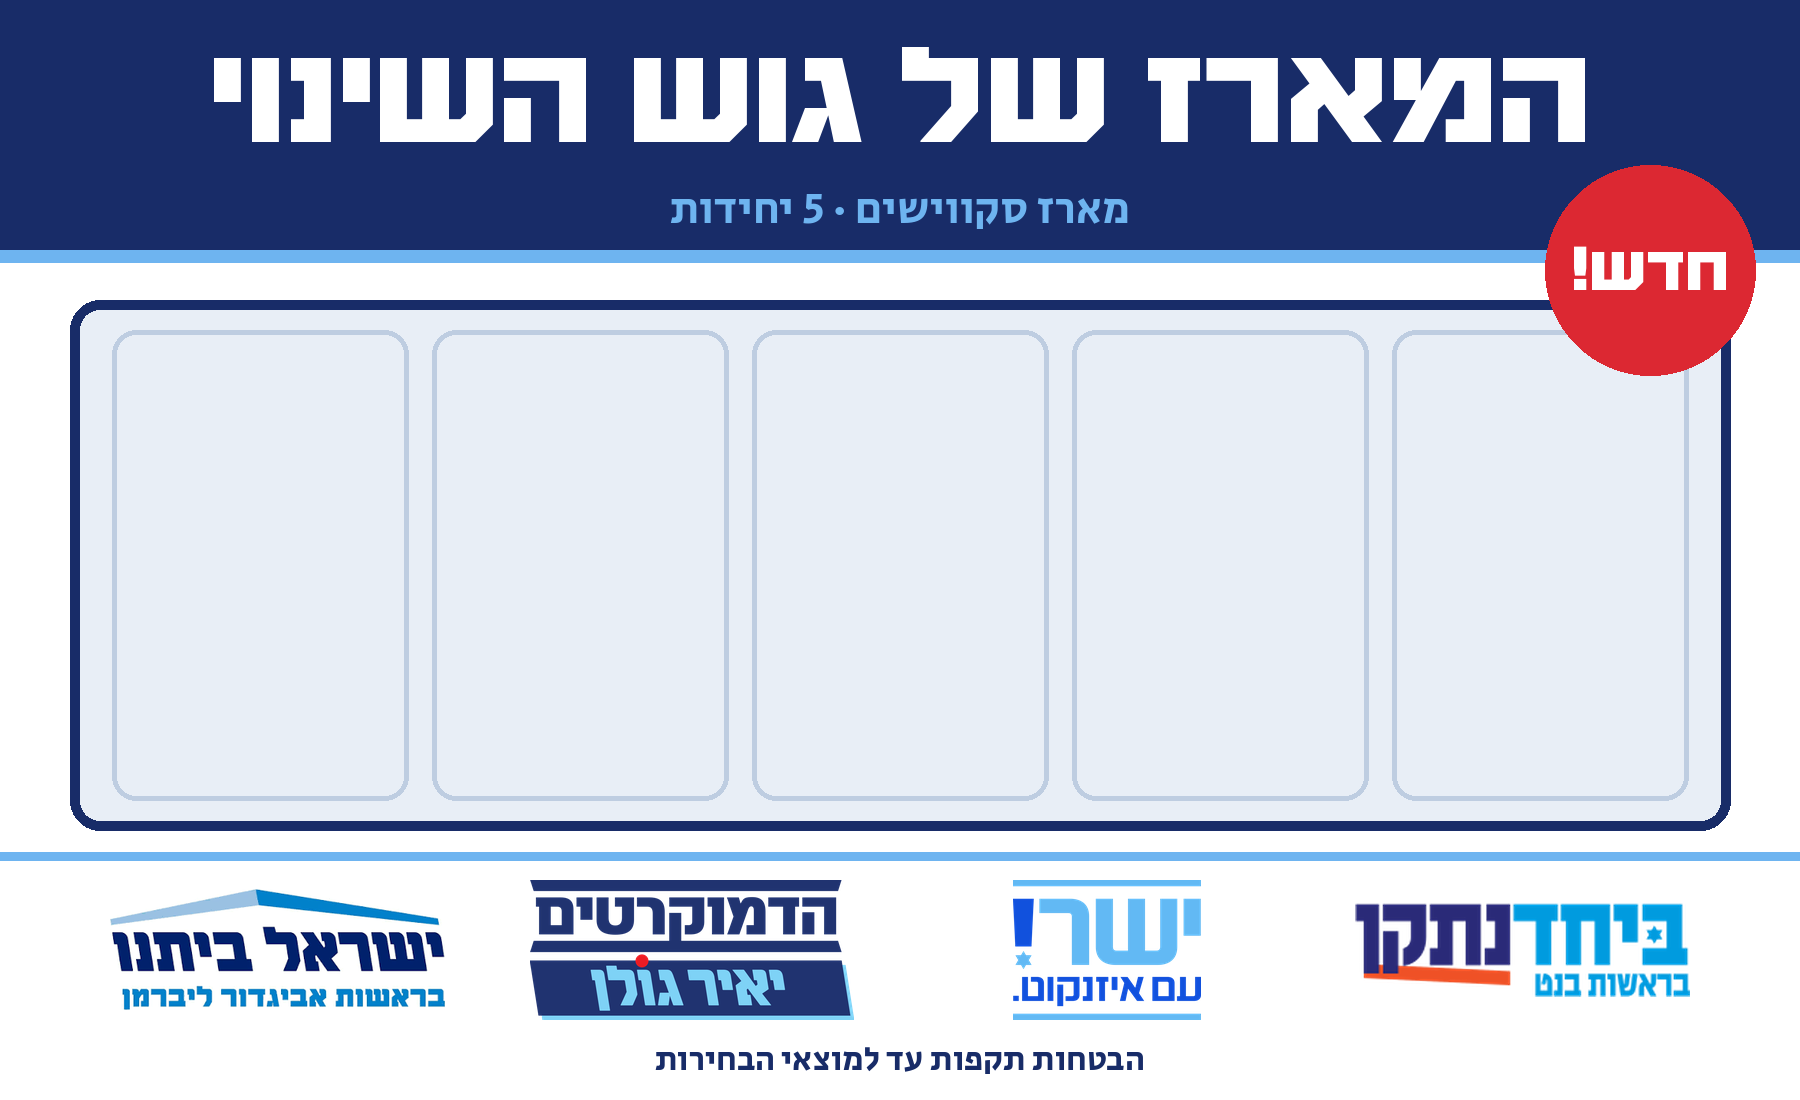
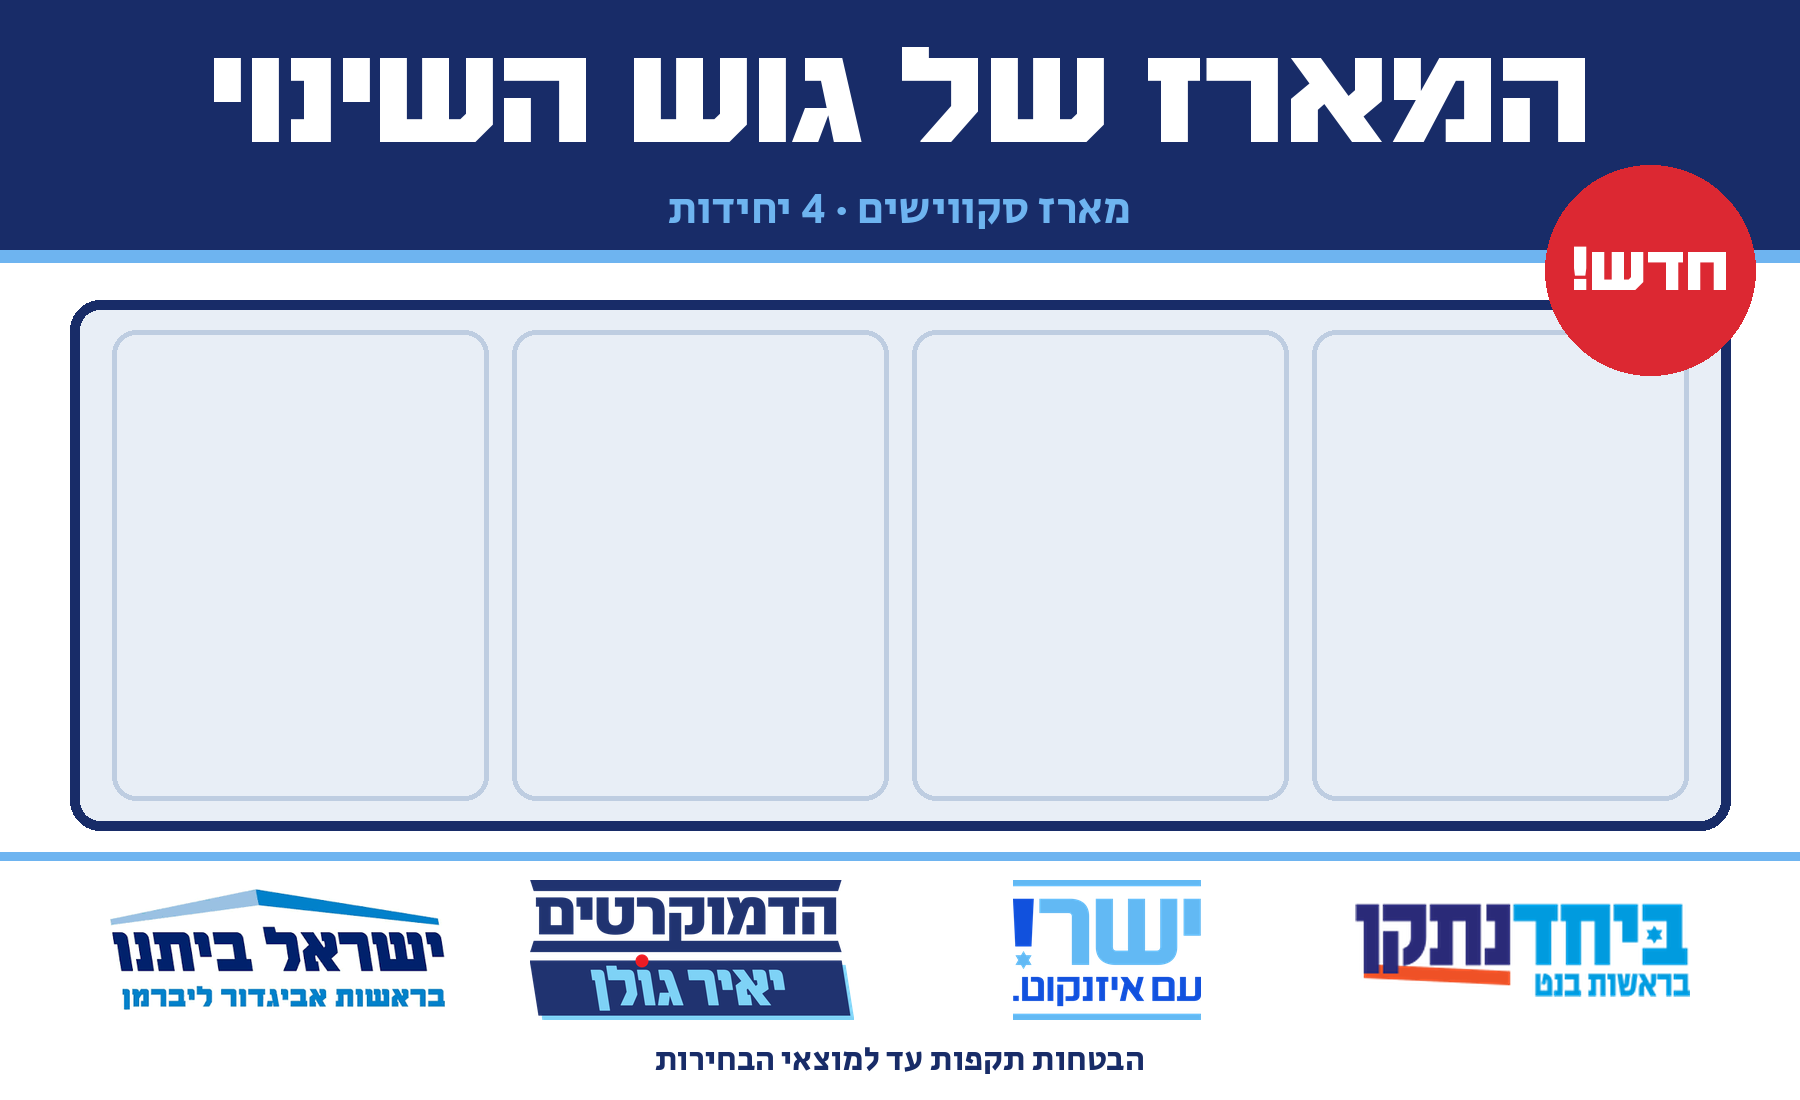
Squishy box: 4 compartments
Claude-Session: https://claude.ai/code/session_01RS3QK6pAd3YhyAuXZSJjH1

diff --git a/content-kit/independent/2026-11-squishy-unboxing/make_box.py b/content-kit/independent/2026-11-squishy-unboxing/make_box.py
@@ -9,12 +9,12 @@ def F(p, s): return ImageFont.truetype(p, s, layout_engine=ImageFont.Layout.RAQM
 im = Image.new('RGBA', (W, H), WHITE); d = ImageDraw.Draw(im)
 d.rectangle((0, 0, W, 250), fill=NAVY); d.rectangle((0, 250, W, 262), fill=LB)
 d.text((W / 2, 30), 'המארז של גוש השינוי', font=F(KB, 140), fill=WHITE, anchor='ma', direction='rtl')
-d.text((W / 2, 178), 'מארז סקווישים · 5 יחידות', font=F(SEC, 44), fill=LB, anchor='ma', direction='rtl')
+d.text((W / 2, 178), 'מארז סקווישים · 4 יחידות', font=F(SEC, 44), fill=LB, anchor='ma', direction='rtl')
 # window
 WX0, WY0, WX1, WY1 = 70, 300, W - 70, 830
 d.rounded_rectangle((WX0, WY0, WX1, WY1), 30, fill=(232, 238, 246), outline=NAVY, width=10)
-for i in range(5):
-    x0 = WX0 + 30 + i * (WX1 - WX0 - 60) / 5; d.rounded_rectangle((x0 + 12, WY0 + 30, x0 + (WX1 - WX0 - 60) / 5 - 12, WY1 - 30), 24, outline=(190, 205, 225), width=5)
+for i in range(4):
+    x0 = WX0 + 30 + i * (WX1 - WX0 - 60) / 4; d.rounded_rectangle((x0 + 12, WY0 + 30, x0 + (WX1 - WX0 - 60) / 4 - 12, WY1 - 30), 24, outline=(190, 205, 225), width=5)
 # badge
 bx, by, r = W - 150, 210, 105
 d.ellipse((bx - r, by - r + 60, bx + r, by + r + 60), fill=RED); d.text((bx, by + 60), 'חדש!', font=F(KB, 64), fill=WHITE, anchor='mm', direction='rtl')
